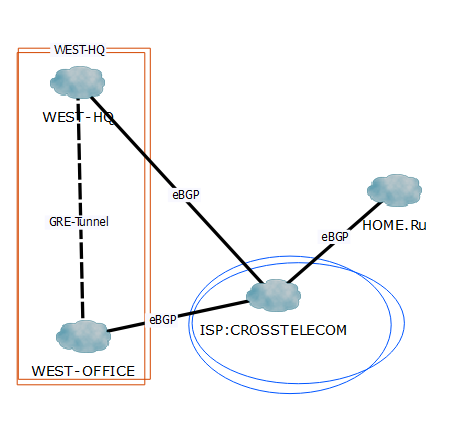
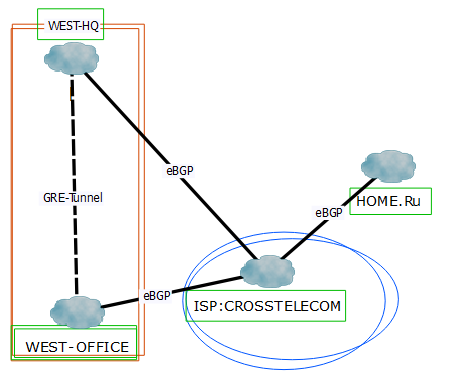
документация7

diff --git a/README.md b/README.md
@@ -39,6 +39,7 @@ ________________
 
 - **Схема 3. IGP: CROSSTELECOM**
 
+_____________________
 
 ## Проблематика:
 **Потеря связности между удаленным офисом и штаб-квартирой, проблемы с доступностью узлов, а также с маршрутизацией трафика.**
@@ -54,6 +55,7 @@ ________________
 - **Мониторинг сети и проактивное управление.**
 - **Расширение сети с сохранением архитектуры.**
 - **Внедрение дополнительных мер безопасности и оптимизации.**
+- **Более детальная настройка eBGP-протокола**
 
 _________________
 
